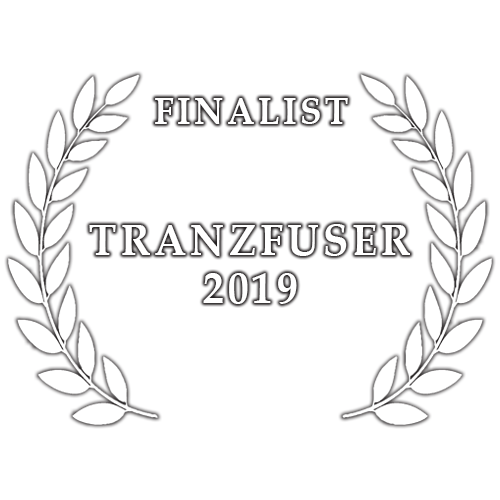
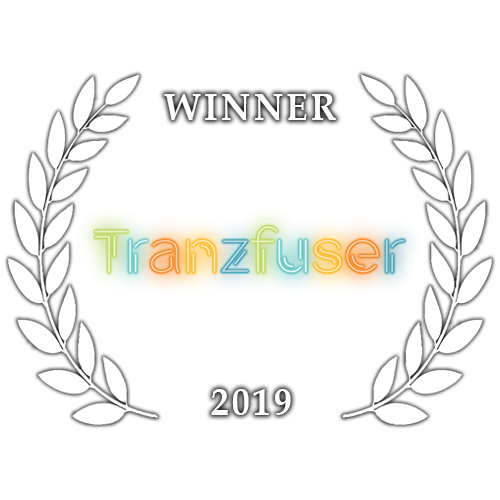
updated page with tranzfuser win and slight scaling change

Changed region(s): [[0.15, 0.42, 0.84, 0.63], [0.3, 0.18, 0.72, 0.27], [0.42, 0.75, 0.6, 0.84]]

diff --git a/styles.css b/styles.css
@@ -123,6 +123,8 @@ body{
     color: #fff;
     overflow: hidden;
     align-content: center;
+    padding-left: 5px;
+    padding-right: 5px;
 }
 
 #SocialMediaArea a{
@@ -196,7 +198,8 @@ body{
     margin-right: auto; 
     color: white;
     font-size: 20px;
-    
+    padding-left: 5px;
+    padding-right: 5px;
     padding-bottom: 0px;
     overflow: auto;
 }
@@ -466,5 +469,10 @@ body{
 
     .wideGameBanner{
         display: none;
+    }
+
+    #ReadySetSumo, #SocialMediaArea{
+        padding-left: 0px;
+        padding-right: 0px;
     }
   }

diff --git a/index.html b/index.html
@@ -161,10 +161,10 @@
           </div>
         </a>
 
-        <a href="https://biscuitbap.tumblr.com/">
+        <a href="https://discord.biscuitsandwich.games/">
           <div class="SocialMediaBox">
-            <img src="Images/SocialMedia/tumblr.png" class="SocialMediaImage"/>
-            <p>BiscuitBap</p>
+            <img src="Images/SocialMedia/discord.png" class="SocialMediaImage"/>
+            <p>Community Discord</p>
           </div>
         </a>
       </div>
